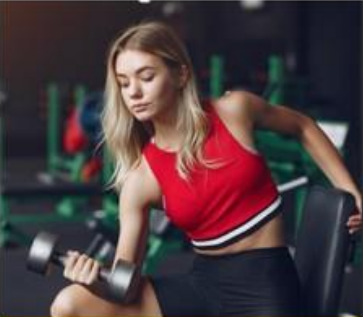
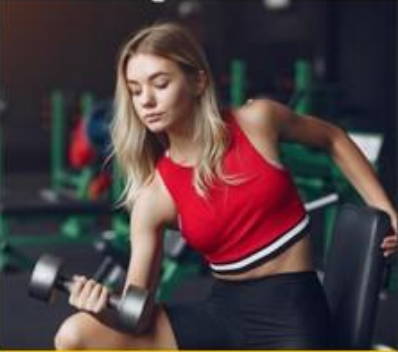
Intento de poder acomodarlo pero sin resultados

diff --git a/TP02/ejercicios/Ej_8/index.html b/TP02/ejercicios/Ej_8/index.html
@@ -19,11 +19,11 @@
 
     <div class="container text-center">
         <div class="row ">
-          <div class="col ">
-            <img src="images/cap1.png"  alt="cap1">
+          <div class="col col-sm-4">
+            <img src="images/cap1.png" class="img" alt="cap1">
           </div>
 
-          <div class="col color-texto1 text-start">
+          <div class="col col-sm-4 color-texto1 text-start">
             <div class="info">
                 <h3>Our Programs</h3>
                 <ul>
@@ -36,14 +36,14 @@
             </div>
           </div>
 
-          <div class="col ">
-            <img src="images/cap2.png"  alt="cap1">
+          <div class="col col-sm-4 ">
+            <img src="images/cap2.png" class="img img-fluid" alt="cap1">
           </div>
 
         </div>
 
         <div class="row ">
-            <div class="col  color-texto2 text-start">
+            <div class="col col-sm-4 color-texto2 text-start">
                 <div class="info">
                     <h3>Indoor Sports</h3>
                     <ul>
@@ -56,11 +56,11 @@
                 </div>
             </div>
 
-            <div class="col ">
-              <img src="images/cap3.png"  alt="cap1">
+            <div class="col col-sm-4 ">
+              <img src="images/cap3.png" class="img img-fluid" alt="cap1">
             </div>
 
-            <div class="col  color-texto3 text-start">
+            <div class="col col-sm-4 color-texto3 text-start">
                 <div class="info">
                     <h3>Yoga Classes</h3>
                     <ul>

diff --git a/TP02/ejercicios/Ej_8/css/style.css b/TP02/ejercicios/Ej_8/css/style.css
@@ -1,9 +1,20 @@
-img{
-    width: 100%;
-}
 .color-texto1{
     color: white;
     background-color: rgb(53, 50, 50);
+    
+}
+div{
+    padding: 0;
+    margin-left: 0;
+    margin-right: 0;
+}
+
+
+.img{
+    padding: 0;
+    margin: 0;
+    margin-left: 0;
+    object-fit: cover;
 }
 
 .color-texto2{
@@ -16,6 +27,9 @@ img{
     background-color: rgb(255, 0, 0);
 }
 
+.col{
+    border: 1px solid black;
+}
 
 .info{
     margin-top: 20%;
